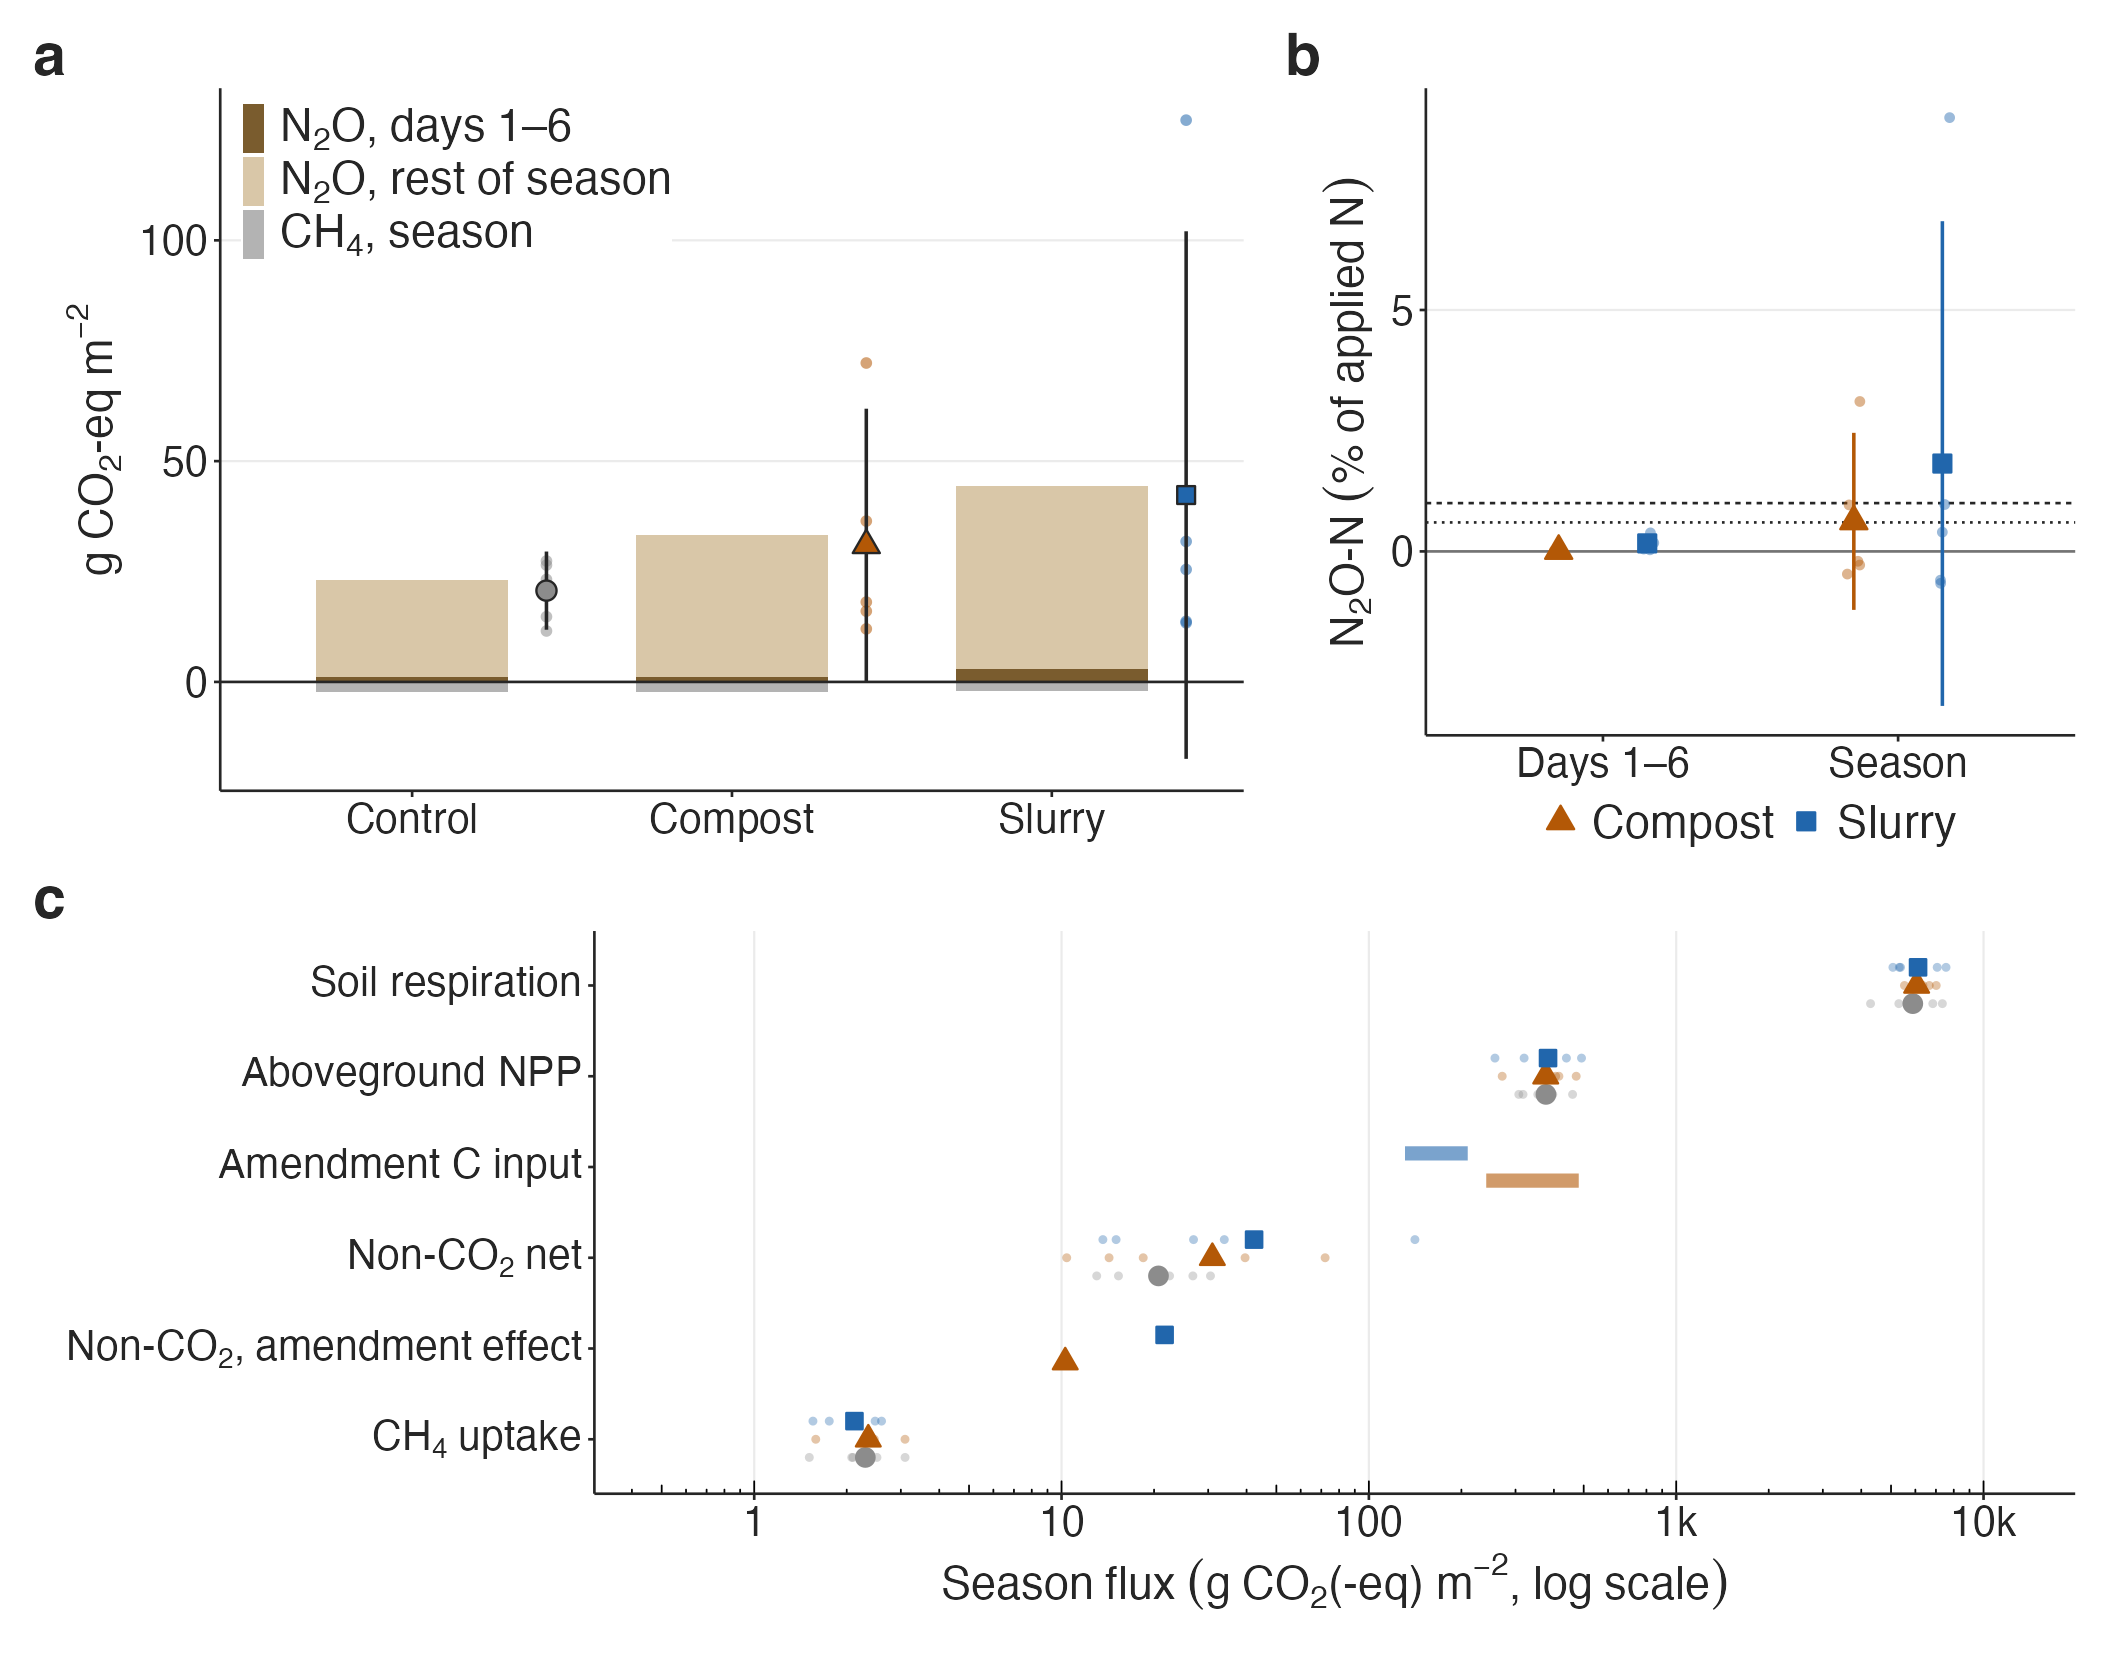
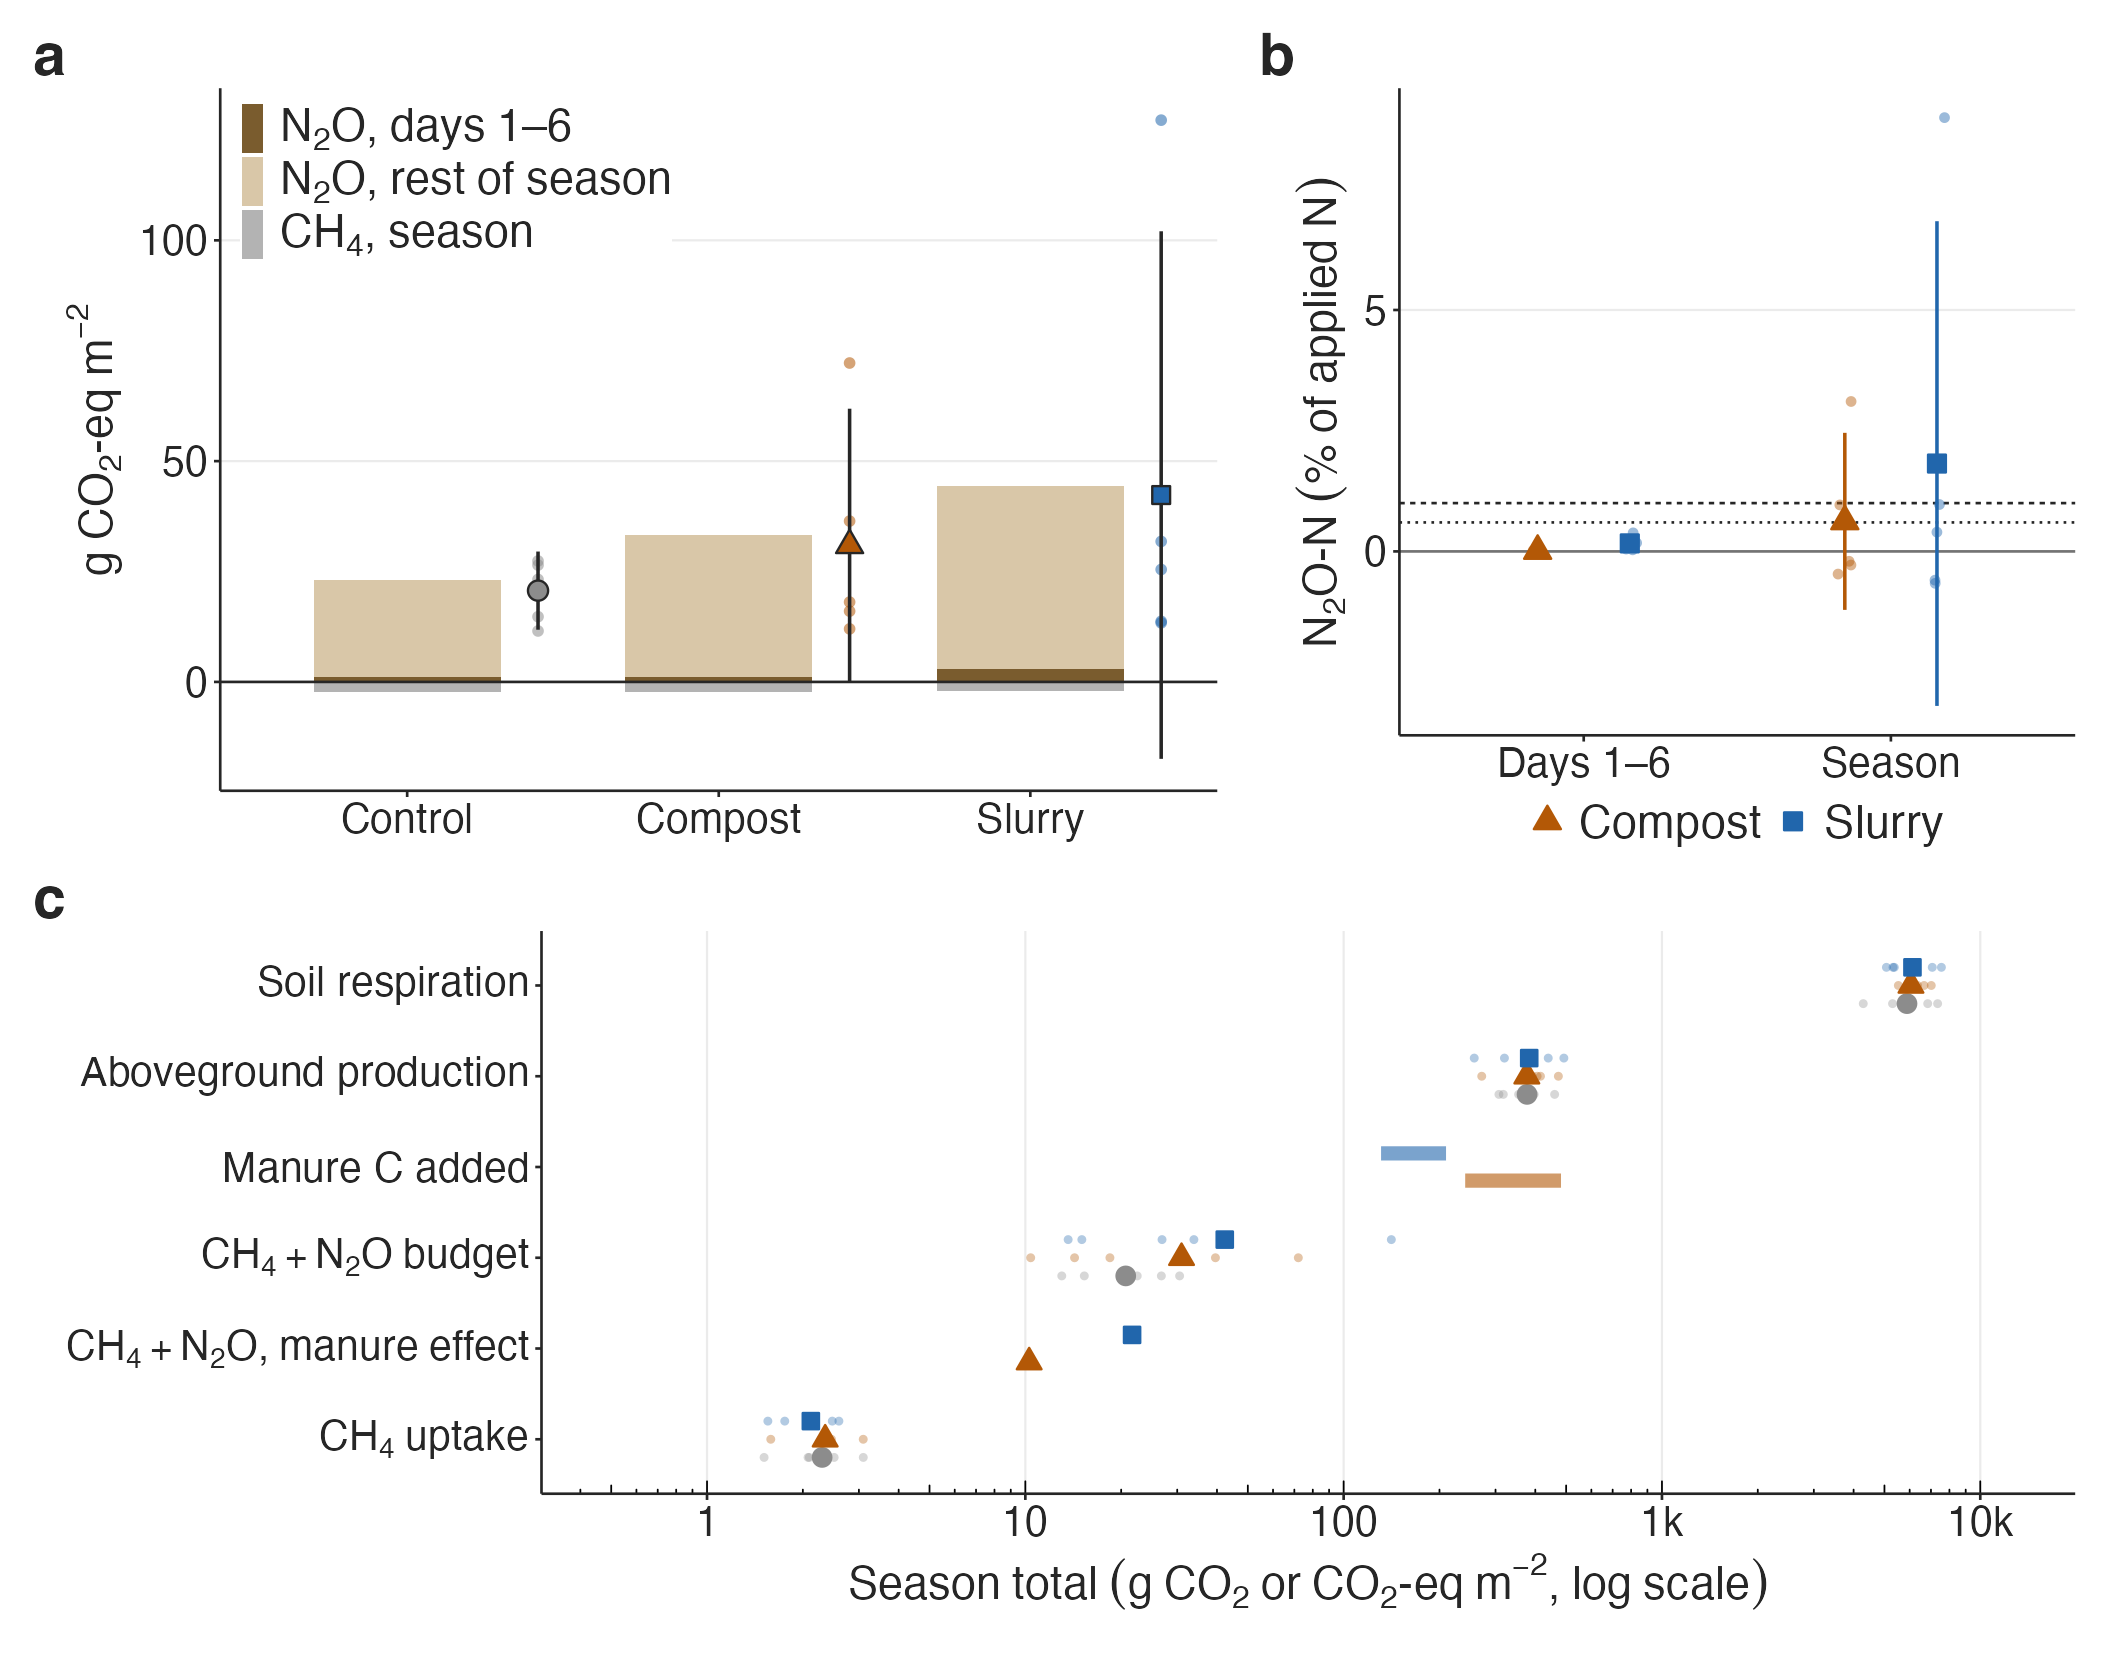
Fig 6c: clearer row labels (CH4 + N2O budget / manure effect, manure C added, aboveground production) and axis title

diff --git a/output/figures/captions.md b/output/figures/captions.md
@@ -42,9 +42,9 @@ The grey band marks |g| < 0.8, the conventional "large" effect threshold. With n
 All values are in CO2-equivalents (GWP100, IPCC AR6: CH4 27.0, N2O 273), from plot-level trapezoid totals for 29 May–14 Oct.
 (a) Season budget per treatment. Bars are component means: CH4 uptake, N2O in days 1–6, and N2O over the rest of the season. Small points are net CH4 + N2O per plot; large symbols are the treatment mean ± 95% CI.
 (b) N2O emission factor: amendment-attributable N2O-N (plot minus control mean) as % of the N applied (slurry 2.75, compost 3.87 g N m−2), for days 1–6 and the season. Reference lines are the IPCC 2019 EF1 aggregate default (1%) and the value for organic N inputs in wet climates (0.6%).
-(c) The non-CO2 budget in the context of the system's carbon fluxes over the same season, all in g CO2(-eq) m−2 on a log scale. These are gross fluxes shown for scale; they are not terms of a single net balance.
+(c) Season totals for scale, all in g CO2 or CO2-eq m−2 on a log scale. Soil respiration and aboveground production are components of the carbon balance, which was not closed, so the terms are not summed.
 - **Soil respiration:** from the clipped collars, so roots plus microbes. It is integrated from midday closures (10:00–17:00), so it is likely biased high compared with a 24-h total.
-- **Aboveground NPP:** the October harvest of the 0.5 m² subplot left uncut since the pre-experiment mow, assuming C = 45% of dry mass.
+- **Aboveground production:** the October harvest of the 0.5 m² subplot left uncut since the pre-experiment mow, assuming C = 45% of dry mass.
 - **Amendment C input:** not measured. The range assumes C = 25–40% of dry matter for slurry and 15–30% for compost.
 - **Result:** the non-CO2 net is 0.35–0.7% of season soil respiration and 5–11% of aboveground NPP. For the amendment effect to be offset, 10–17% of the slurry C, or 2–4% of the compost C, would have to stay in the soil through the season (point estimates).
 - **Metric choice barely matters** (ghg_co2eq_metrics.csv): season net non-CO2 for the slurry plots is 42 g CO2-eq m−2 under GWP100, 38 under GWP20, 38 under GTP100 and 44 under GWP* for a sustained practice. N2O dominates, and its GWP20 equals its GWP100.
